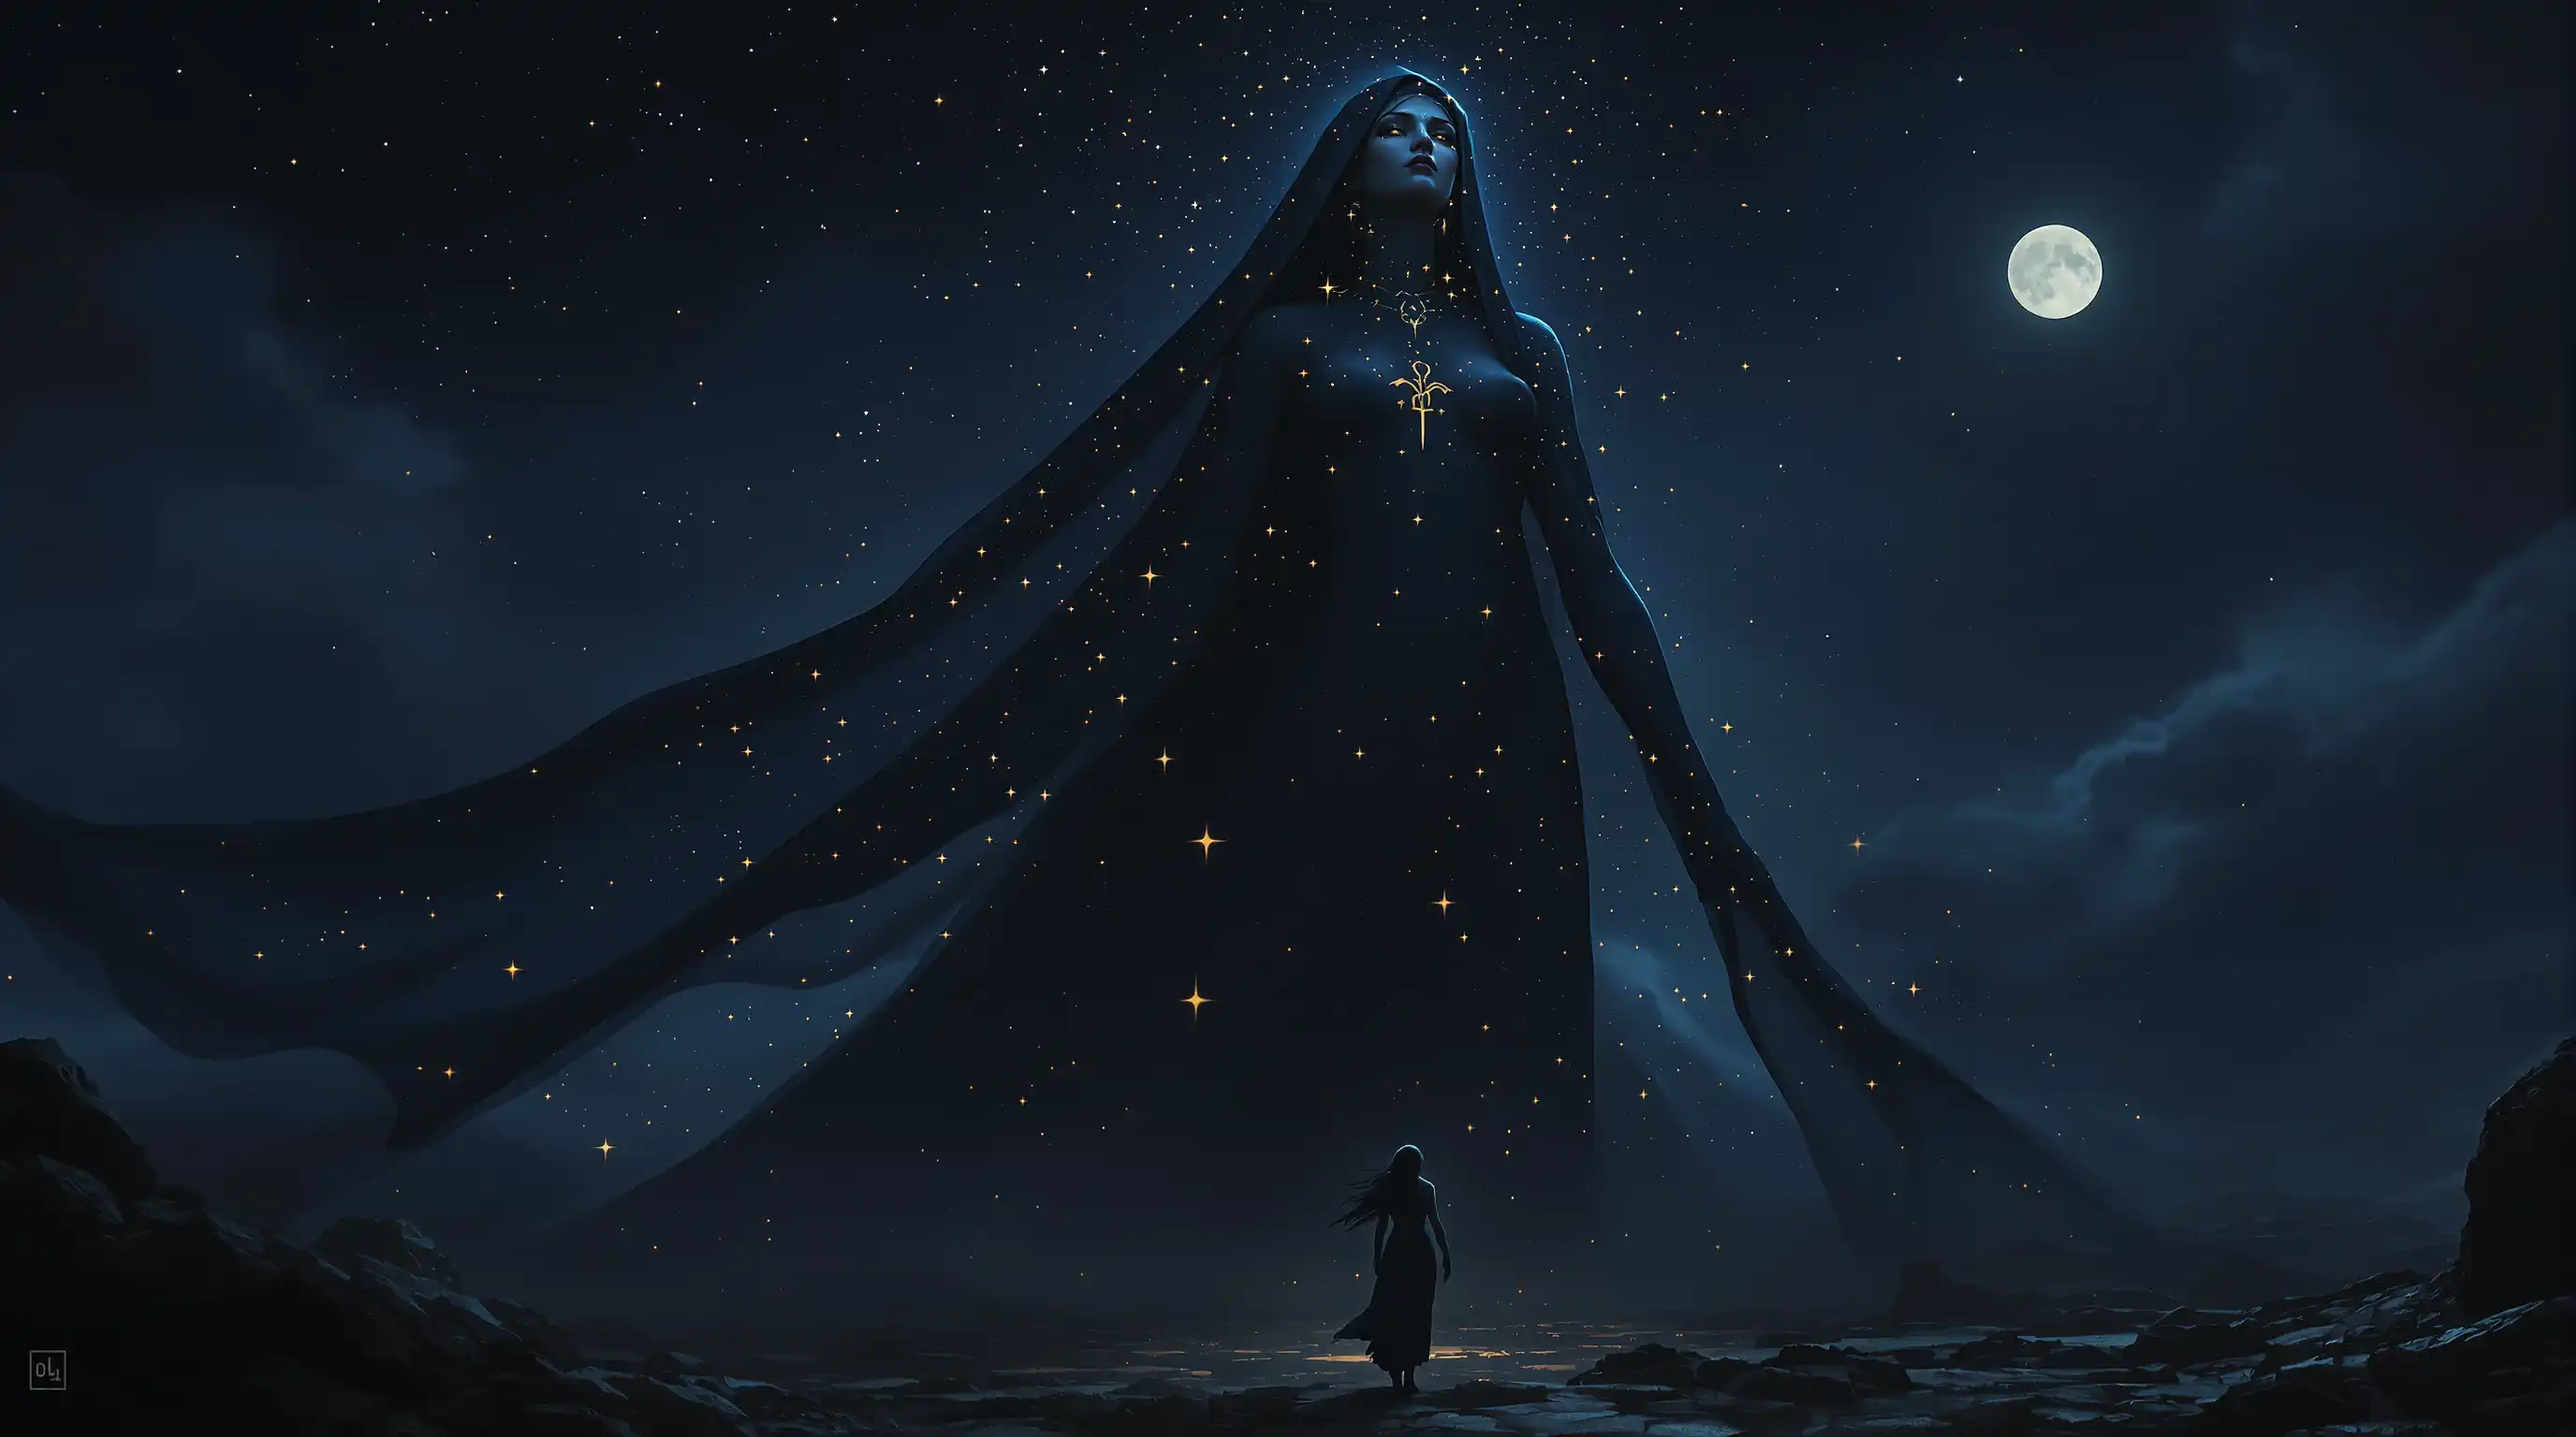
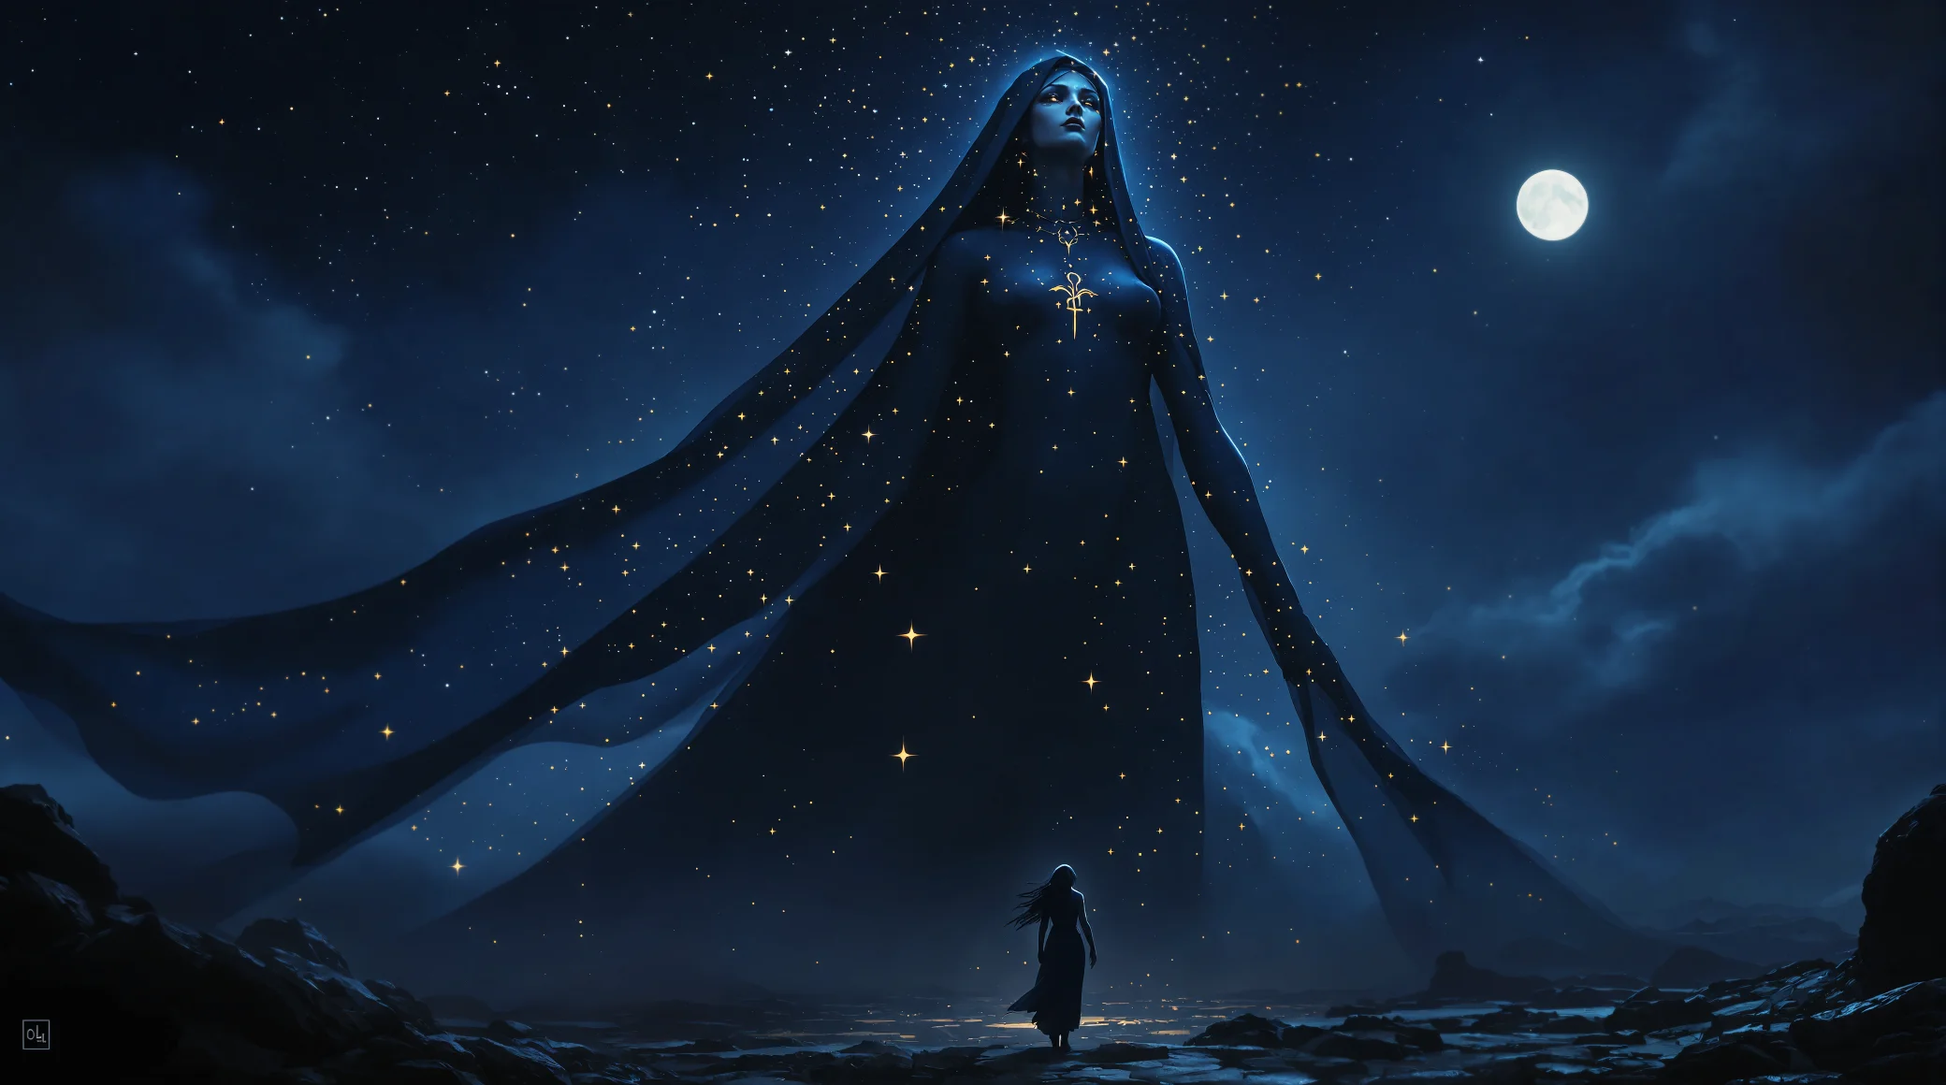
update bg image

diff --git a/src/layouts/MainLayout.vue b/src/layouts/MainLayout.vue
@@ -66,7 +66,7 @@ q-layout(view="lHh Lpr lFf" )
                   div  Logout
 
   q-page-container.centered.bg-grey-10
-    .centered.bg-dark(style="width:1800px; max-width:100%; height:100%" )
+    .centered.bg-dark(style="width:100vw; height:100%" )
       router-view
       .full-width.q-pa-md.bg-grey-10
         .centered.items-center.q-gutter-md

diff --git a/src/components/Landing.vue b/src/components/Landing.vue
@@ -1,5 +1,5 @@
 <template lang="pug">
-div.parallax(style="min-height: 100vh; position: relative; background-position: center 53px;" )
+div.parallax.full-width(style="min-height: 100vh; position: relative; background-position: center 53px;" )
   .full-width(style="height:250px;")
   div
     .centered.q-pt-xl.fadeIn
